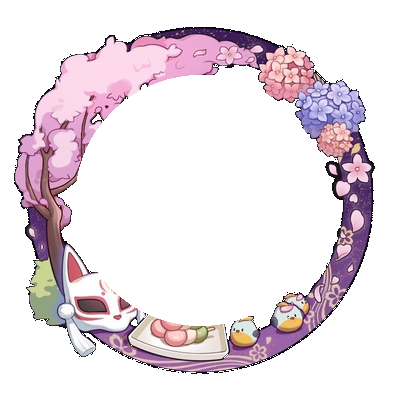
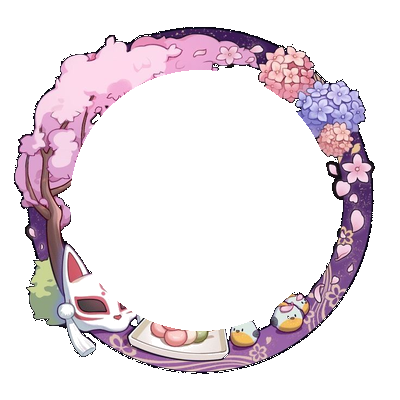
Fix frame alpha channels and ?v=4 cache buster

diff --git a/frontend/src/pages/SettingsPage.jsx b/frontend/src/pages/SettingsPage.jsx
@@ -71,8 +71,8 @@ const DECORATIONS = {
   ],
   frames: [
     { id: 1, name: 'Без рамки', img: 'none', type: 'frame', price: 0 },
-    { id: 2, name: 'Кровавый Демон', img: '/frames/frame_oni.png', type: 'frame', price: 1000 },
-    { id: 3, name: 'Весенняя Кицунэ', img: '/frames/frame_kitsune.png', type: 'frame', price: 1000 }
+    { id: 2, name: 'Кровавый Демон', img: '/frames/frame_oni.png?v=4', type: 'frame', price: 1000 },
+    { id: 3, name: 'Весенняя Кицунэ', img: '/frames/frame_kitsune.png?v=4', type: 'frame', price: 1000 }
   ],
   banners: [
     { id: 1, name: 'City Night', img: '/banner_1_city_1783958158072.jpg', type: 'banner' },
@@ -650,7 +650,7 @@ export default function SettingsPage() {
                   <img src={currentAvatar} alt="Avatar" className={styles.cardAvatar} />
                   {currentFrame && currentFrame !== 'none' && (
                     <img 
-                      src={DECORATIONS.frames.find(f => f.styleId === currentFrame)?.img || currentFrame.includes('?v=3') ? currentFrame : `${currentFrame}?v=3`} 
+                      src={DECORATIONS.frames.find(f => f.styleId === currentFrame)?.img || currentFrame.split('?')[0] + '?v=4'} 
                       alt="Frame" 
                       className={styles.frameImg} 
                     />

diff --git a/frontend/src/pages/ProfilePage.jsx b/frontend/src/pages/ProfilePage.jsx
@@ -130,7 +130,7 @@ export default function ProfilePage() {
           <div className={styles.phAvatar}>
             <img src={selectedAvatar} alt="Avatar" className={styles.avatarImg} />
             {selectedFrame && selectedFrame !== 'none' && (
-              <img src={selectedFrame.includes('?v=3') ? selectedFrame : `${selectedFrame}?v=3`} alt="Frame" className={styles.frameImg} />
+              <img src={selectedFrame.split('?')[0] + '?v=4'} alt="Frame" className={styles.frameImg} />
             )}
           </div>
           <div className={styles.phInfo}>